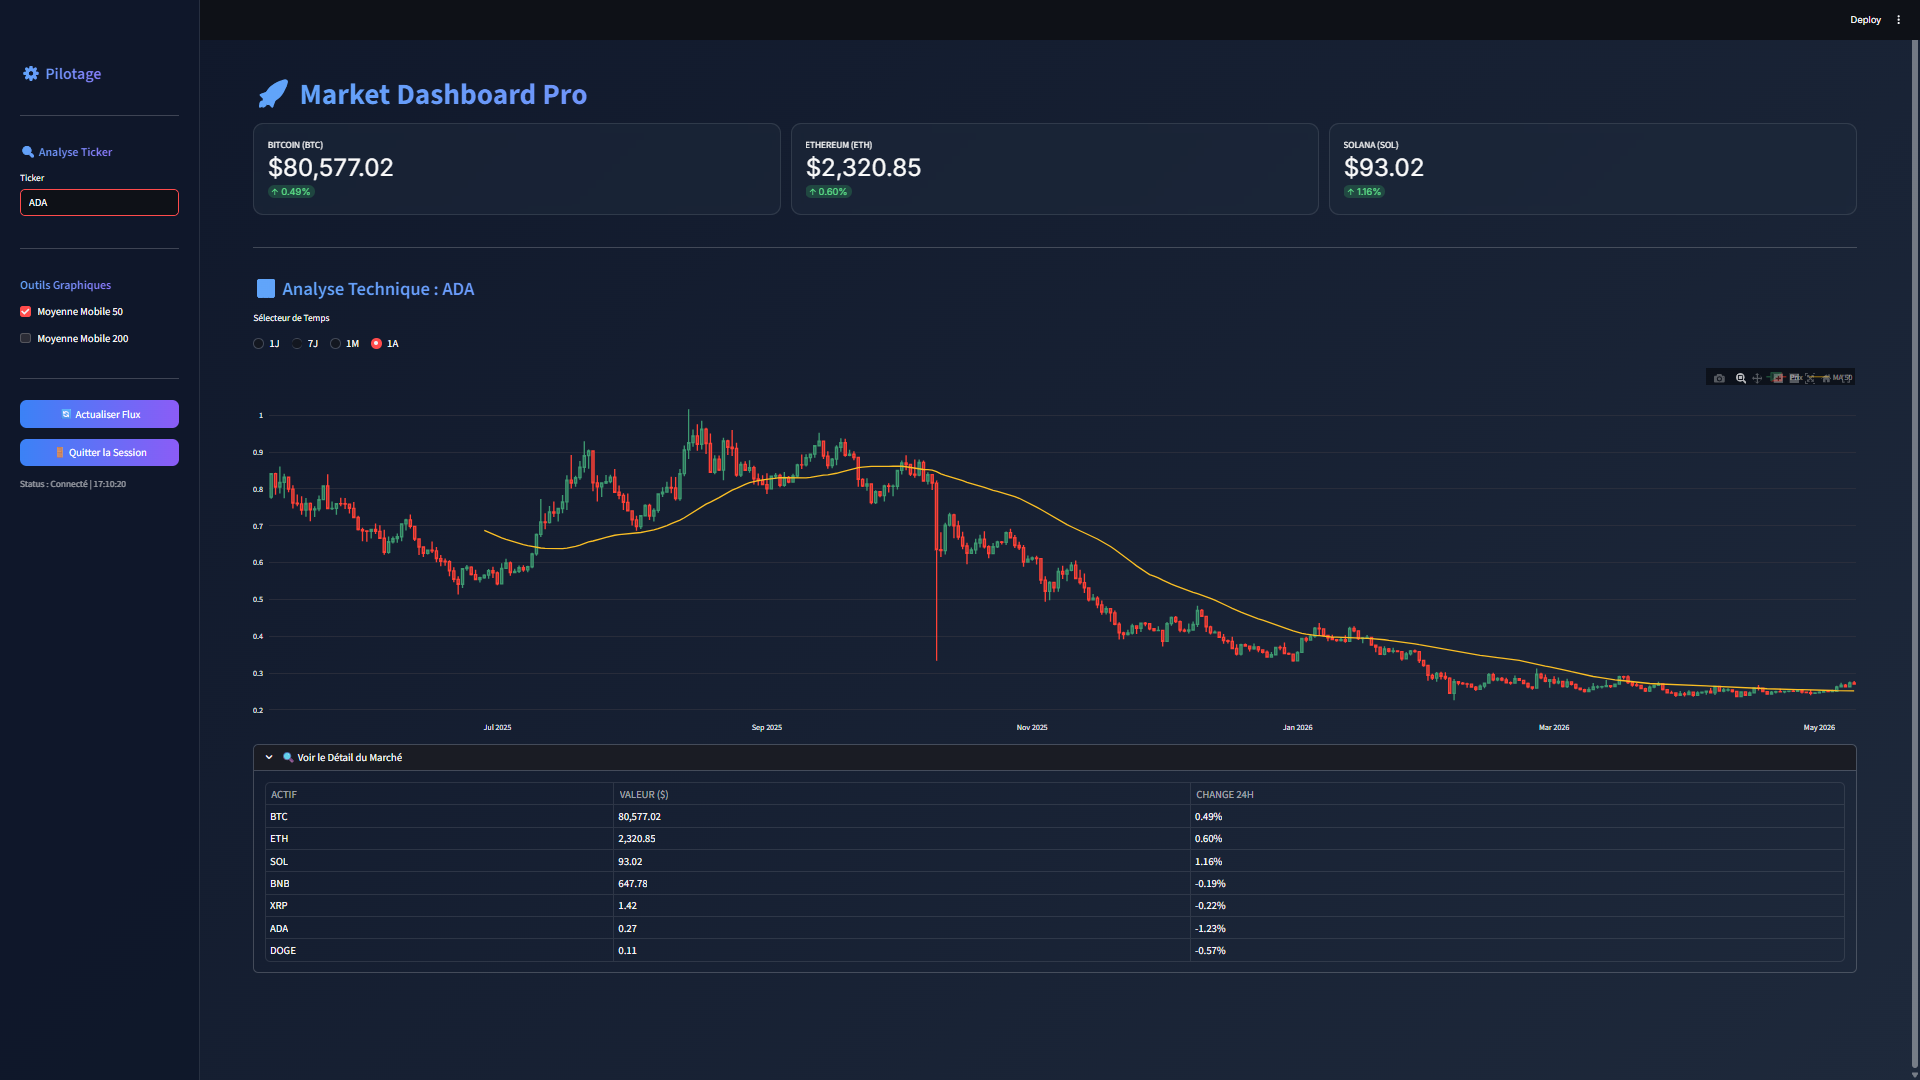
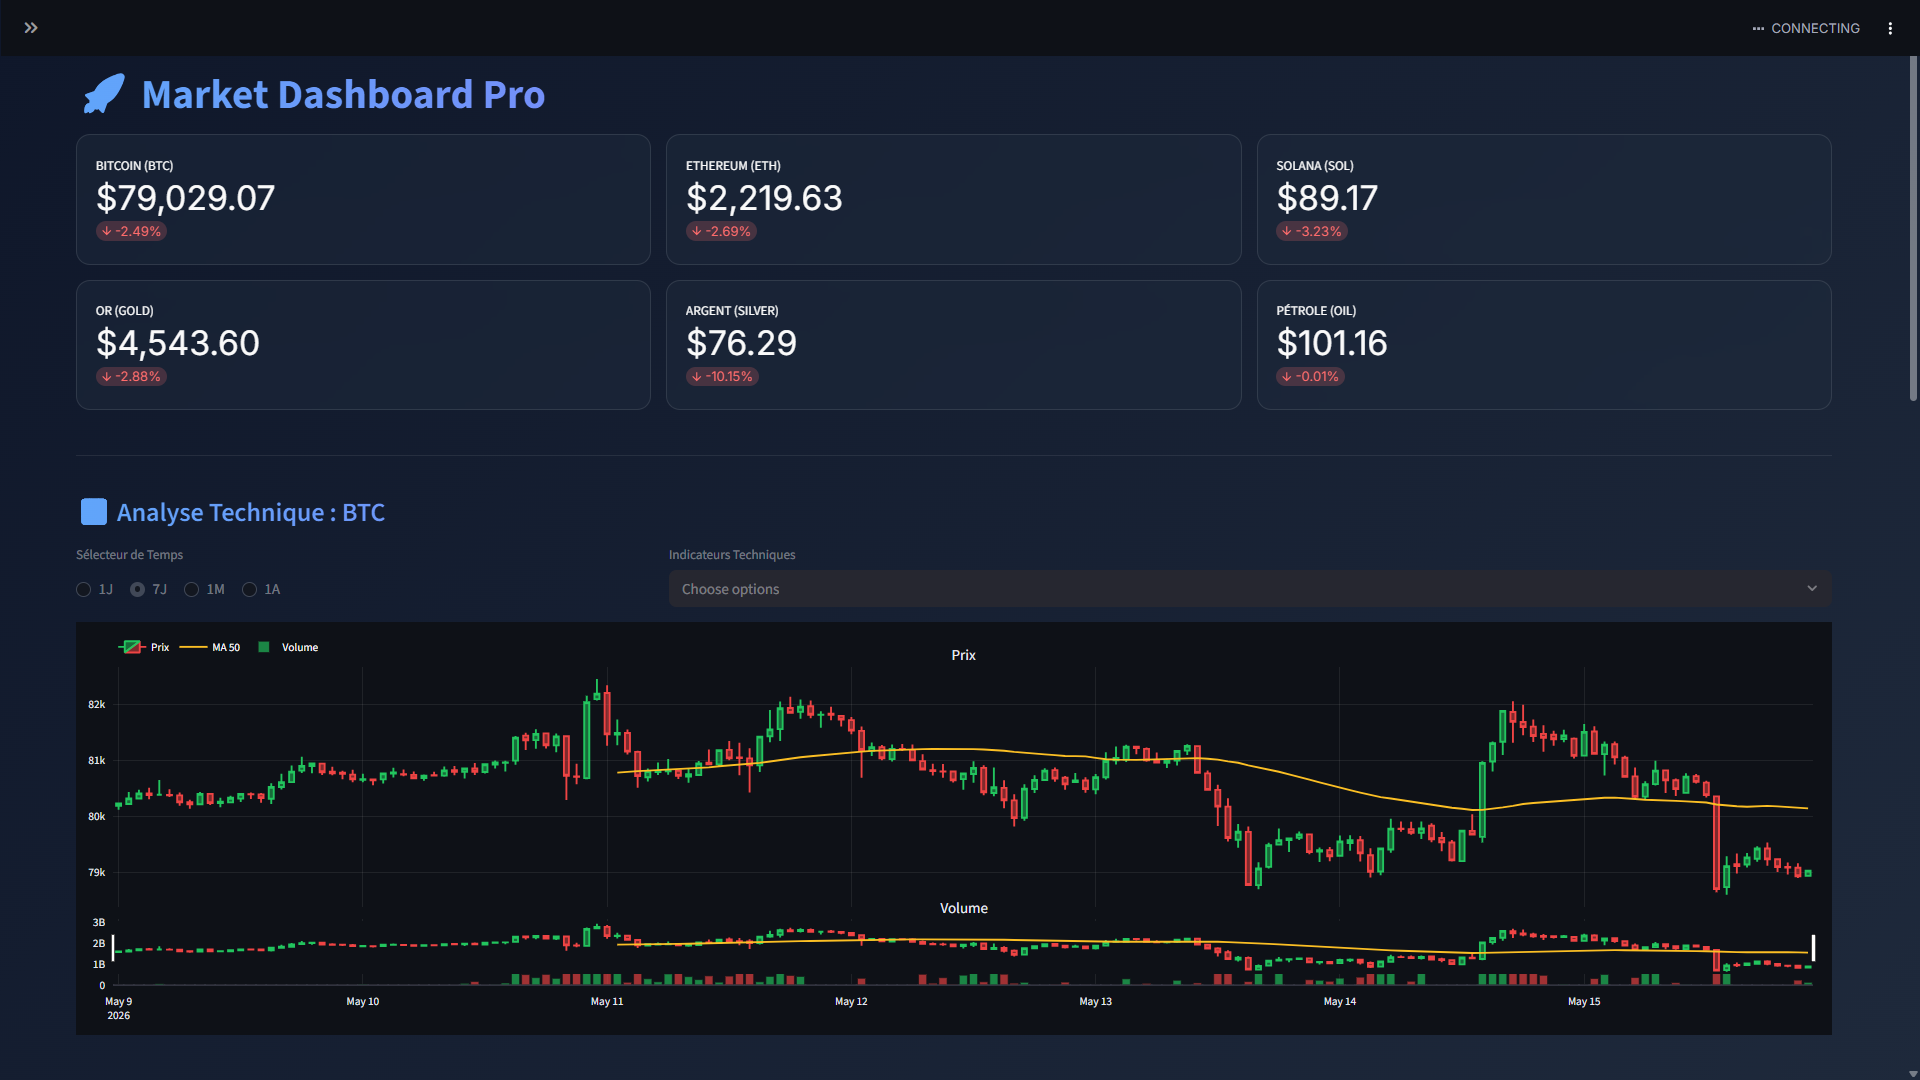
update readme file

diff --git a/README.md b/README.md
@@ -28,6 +28,28 @@
   <img src="assets/screenshots/dashboard.png" alt="Main Dashboard" width="65%">
 </div>
 
+## CHART
+<div align="center">
+  <img src="assets/screenshots/chart.png" alt="Main Dashboard" width="65%">
+</div>
+
+## COMPARAISON
+<div align="center">
+  <img src="assets/screenshots/compari.png" alt="Main Dashboard" width="65%">
+</div>
+
+## ANALYSE SENTIMENT
+<div align="center">
+  <img src="assets/screenshots/analyse_sentiment.png" alt="Main Dashboard" width="65%">
+</div>
+
+## DETAIL MARCHE
+<div align="center">
+  <img src="assets/screenshots/det_marche.png" alt="Main Dashboard" width="65%">
+</div>
+
+
+
 > [!TIP]
 > Pour une expérience optimale, utilisez le navigateur Chrome en mode plein écran.
 
@@ -95,9 +117,6 @@ Pour activer les actualités crypto en **temps réel** via NewsAPI :
 2. Récupérez votre clé API
 3. Ajoutez-la dans `.env` :
 
-```env
-NEWSAPI_KEY=votre_clé_api_ici
-```
 
 > **Sans clé API** : le système affichera des actualités de démonstration réalistes.
 
@@ -158,7 +177,7 @@ Les contributions font la force de la communauté open-source.
 **Anes Chebbi** - _Développeur Fullstack & Passionné de Finance_
 
 - GitHub : [@aneschebbi6-star](https://github.com/aneschebbi6-star)
-- LinkedIn : [Votre Profil](https://linkedin.com/in/votre-profil) (Optionnel)
+- LinkedIn : [Votre Profil](https://www.linkedin.com/in/anes-chebbi-9995b1316/) 
 
 ---
 
